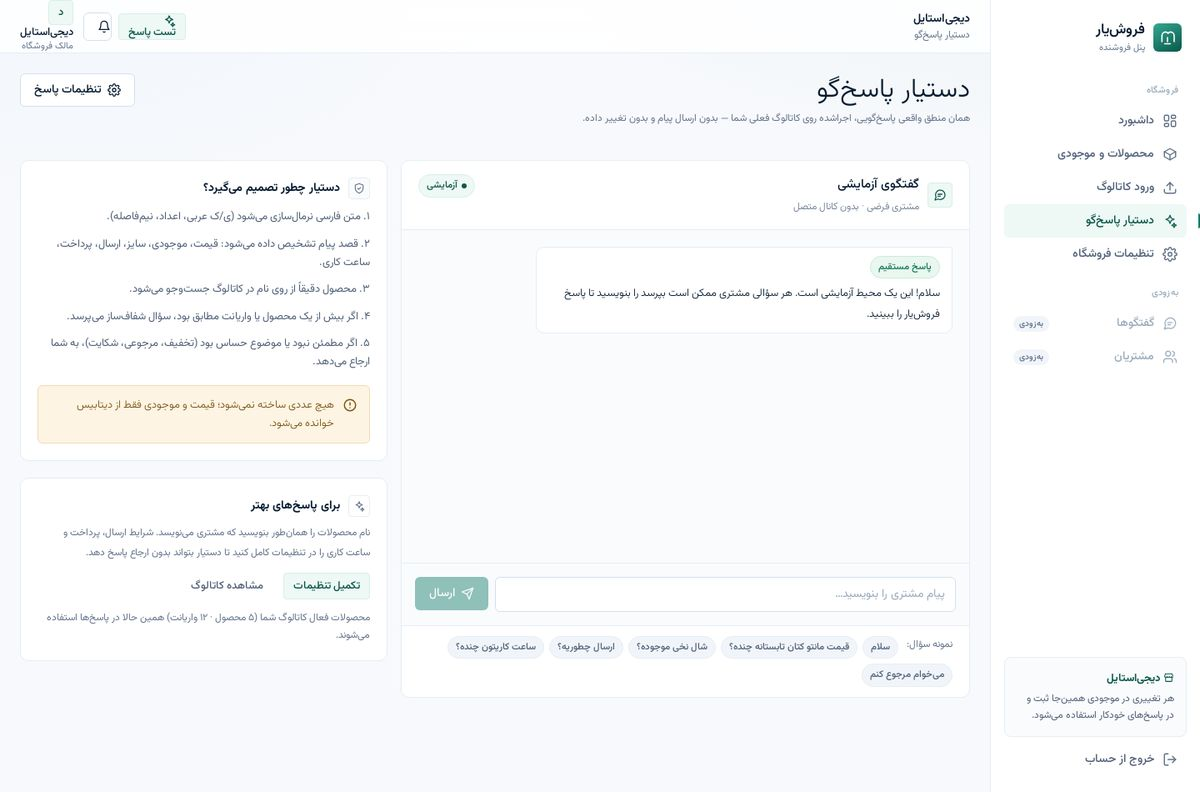
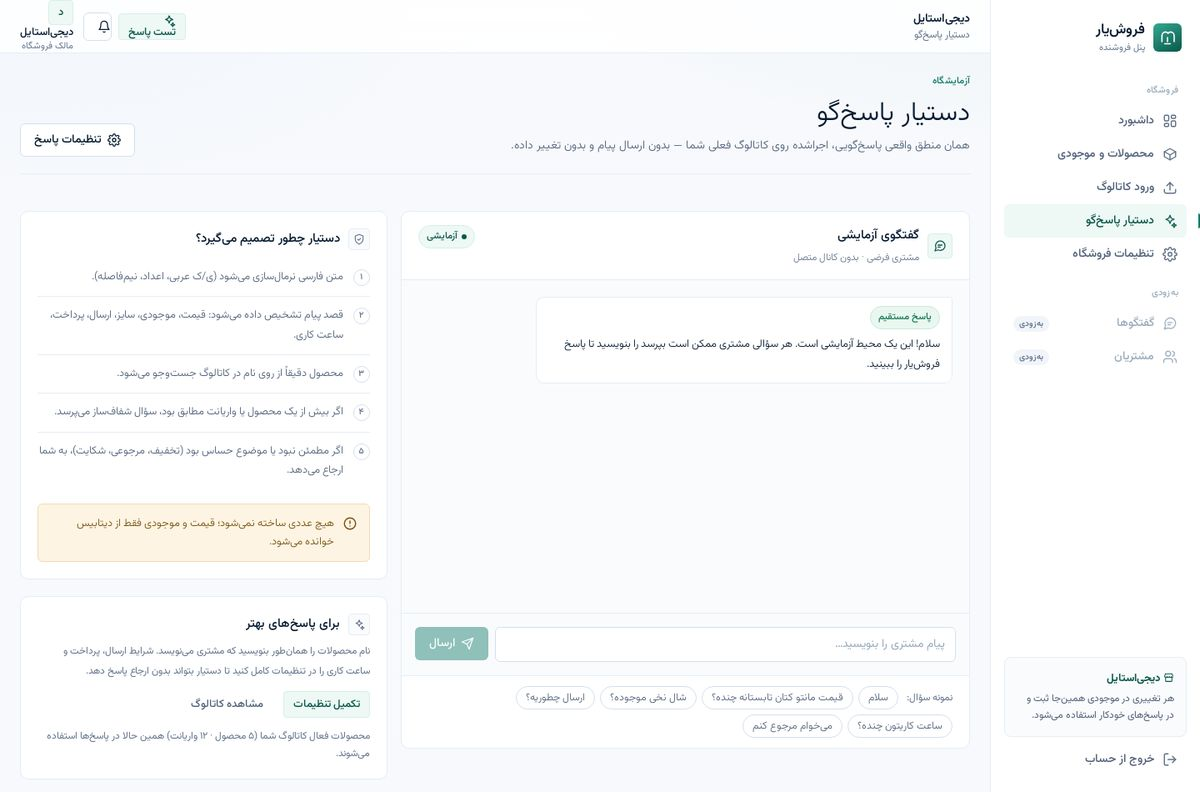
Bring settings, import and assistant onto the same hairline system

diff --git a/frontend/app/app/settings/page.tsx b/frontend/app/app/settings/page.tsx
@@ -63,6 +63,7 @@ export default function SettingsPage() {
   return (
     <div className="stack">
       <PageHeader
+        eyebrow="پیکربندی"
         title="تنظیمات فروشگاه"
         description="این اطلاعات همان چیزی است که دستیار در پاسخهای ارسال، پرداخت و ساعت کاری استفاده میکند."
         actions={<Link href="/app/assistant" className="btn btn-outline"><IconChat size={16} />آزمایش پاسخ</Link>}
@@ -73,12 +74,13 @@ export default function SettingsPage() {
           <section className="card">
             <div className="card-head">
               <div className="row" style={{ gap: 10 }}>
-                <span className="stat-ico"><IconStore size={17} /></span>
+                <span className="stat-ico"><IconStore size={15} /></span>
                 <div>
                   <div className="card-title">هویت فروشگاه</div>
                   <div className="card-desc">نام و لحن پاسخگویی</div>
                 </div>
               </div>
+              <span className="card-index num">۰۱</span>
             </div>
             <div className="card-body" style={{ display: 'grid', gap: 14 }}>
               <Field label="نام فروشگاه" required htmlFor="name">
@@ -93,12 +95,13 @@ export default function SettingsPage() {
           <section className="card">
             <div className="card-head">
               <div className="row" style={{ gap: 10 }}>
-                <span className="stat-ico"><IconSettings size={17} /></span>
+                <span className="stat-ico"><IconSettings size={15} /></span>
                 <div>
                   <div className="card-title">اطلاعات پاسخگویی</div>
                   <div className="card-desc">اگر خالی بماند، دستیار برای این سؤالها شما را ارجاع میدهد</div>
                 </div>
               </div>
+              <span className="card-index num">۰۲</span>
             </div>
             <div className="card-body" style={{ display: 'grid', gap: 14 }}>
               <Field label="شرایط ارسال" htmlFor="shipping" hint="هزینه، روش و زمان تحویل را بنویسید.">
@@ -131,11 +134,12 @@ export default function SettingsPage() {
 
         <div className="stack">
           <section className="card card-pad">
-            <div className="row-between" style={{ marginBottom: 8 }}>
-              <strong>کاملبودن پروفایل</strong>
-              <span className="badge b-brand num">{percent}٪</span>
+            <div className="kv-k" style={{ marginBottom: 10 }}>کاملبودن پروفایل</div>
+            <div className="row" style={{ gap: 8, alignItems: 'baseline' }}>
+              <span className="num" style={{ fontSize: 34, fontWeight: 300, lineHeight: 1 }}>{percent}٪</span>
+              <span className="small muted">از ۶ فیلد</span>
             </div>
-            <div className="progress"><span style={{ width: `${percent}%` }} /></div>
+            <div className="progress mt-3"><span style={{ width: `${percent}%` }} /></div>
             <p className="small muted mt-3" style={{ lineHeight: 1.95 }}>
               هر چه این بخشها کاملتر باشد، دستیار بیشتر میتواند بدون ارجاع پاسخ بدهد و بار پاسخگویی دستی کمتر میشود.
             </p>
@@ -143,18 +147,35 @@ export default function SettingsPage() {
 
           <section className="card">
             <div className="card-head"><div className="card-title">پیشنمایش پاسخ</div></div>
-            <div className="card-body" style={{ display: 'grid', gap: 10 }}>
+            <div className="card-body" style={{ paddingBlock: 6 }}>
+              <div className="kv">
               <PreviewRow label="اگر بپرسند «ارسال چطوریه؟»" value={form.shipping} fallback="به فروشنده ارجاع داده میشود" />
               <PreviewRow label="اگر بپرسند «پرداخت چطوره؟»" value={form.payment} fallback="به فروشنده ارجاع داده میشود" />
               <PreviewRow label="اگر بپرسند «کی باز هستید؟»" value={form.workingHours} fallback="به فروشنده ارجاع داده میشود" />
+              </div>
             </div>
           </section>
 
-          <section className="card card-pad" style={{ background: 'linear-gradient(160deg, var(--brand-50), #fff 70%)', borderColor: 'var(--brand-100)' }}>
-            <strong style={{ display: 'block', marginBottom: 6 }}>فروشگاه فعلی</strong>
-            <div className="small muted">{shop?.name ?? form.name}</div>
-            <div className="small muted" style={{ marginTop: 2 }}>
-              شناسه فروشگاه: <span className="mono">{shop?.id?.slice(0, 8) ?? '—'}…</span>
+          <section className="card">
+            <div className="card-head">
+              <div className="card-title">فروشگاه فعلی</div>
+              <span className="card-index">حساب</span>
+            </div>
+            <div className="card-body" style={{ paddingBlock: 6 }}>
+              <div className="kv">
+                <div className="kv-row">
+                  <span className="kv-k">نام</span>
+                  <span className="kv-v">{shop?.name ?? form.name}</span>
+                </div>
+                <div className="kv-row">
+                  <span className="kv-k">شناسه</span>
+                  <span className="kv-v mono">{shop?.id ? `${shop.id.slice(0, 8)}…` : '—'}</span>
+                </div>
+                <div className="kv-row">
+                  <span className="kv-k">وضعیت</span>
+                  <span className="kv-v"><span className="badge b-green"><span className="dot" />فعال</span></span>
+                </div>
+              </div>
             </div>
           </section>
         </div>
@@ -166,9 +187,9 @@ export default function SettingsPage() {
 function PreviewRow({ label, value, fallback }: { label: string; value: string; fallback: string }) {
   const filled = value.trim().length > 0;
   return (
-    <div style={{ border: '1px solid var(--line)', borderRadius: 'var(--r-md)', padding: '10px 12px', background: filled ? 'var(--surface-2)' : 'var(--amber-soft)' }}>
-      <div className="small muted" style={{ marginBottom: 3 }}>{label}</div>
-      <div className="small" style={{ fontWeight: 500 }}>{filled ? value : fallback}</div>
+    <div className="kv-row">
+      <span className="kv-k">{label}</span>
+      <span className={`kv-v ${filled ? '' : 'missing'}`}>{filled ? value : fallback}</span>
     </div>
   );
 }

diff --git a/frontend/app/app/assistant/page.tsx b/frontend/app/app/assistant/page.tsx
@@ -73,6 +73,7 @@ export default function AssistantPage() {
   return (
     <div className="stack">
       <PageHeader
+        eyebrow="آزمایشگاه"
         title="دستیار پاسخگو"
         description="همان منطق واقعی پاسخگویی، اجراشده روی کاتالوگ فعلی شما — بدون ارسال پیام و بدون تغییر داده."
         actions={<Link href="/app/settings" className="btn btn-outline"><IconSettings size={16} />تنظیمات پاسخ</Link>}
@@ -121,12 +122,11 @@ export default function AssistantPage() {
             </button>
           </form>
 
-          <div className="card-foot" style={{ display: 'flex', gap: 6, flexWrap: 'wrap' }}>
+          <div className="card-foot" style={{ display: 'flex', gap: 6, flexWrap: 'wrap', alignItems: 'center' }}>
             <span className="small muted" style={{ marginInlineEnd: 4 }}>نمونه سؤال:</span>
             {SUGGESTIONS.map(suggestion => (
               <button
-                key={suggestion} type="button" className="badge b-gray"
-                style={{ cursor: 'pointer', border: '1px solid var(--line)' }}
+                key={suggestion} type="button" className="chip-btn"
                 onClick={() => setValue(suggestion)}
               >
                 {suggestion}
@@ -138,15 +138,15 @@ export default function AssistantPage() {
         <div className="stack">
           <section className="card card-pad">
             <div className="row" style={{ gap: 10, marginBottom: 10 }}>
-              <span className="stat-ico"><IconShield size={17} /></span>
-              <strong>دستیار چطور تصمیم میگیرد؟</strong>
+              <span className="stat-ico"><IconShield size={15} /></span>
+              <span className="card-title" style={{ margin: 0 }}>دستیار چطور تصمیم میگیرد؟</span>
             </div>
-            <ul style={{ display: 'grid', gap: 10, fontSize: 'var(--fs-sm)', color: 'var(--ink-2)' }}>
-              <li>۱. متن فارسی نرمالسازی میشود (ی/ک عربی، اعداد، نیمفاصله).</li>
-              <li>۲. قصد پیام تشخیص داده میشود: قیمت، موجودی، سایز، ارسال، پرداخت، ساعت کاری.</li>
-              <li>۳. محصول دقیقاً از روی نام در کاتالوگ جستوجو میشود.</li>
-              <li>۴. اگر بیش از یک محصول یا واریانت مطابق بود، سؤال شفافساز میپرسد.</li>
-              <li>۵. اگر مطمئن نبود یا موضوع حساس بود (تخفیف، مرجوعی، شکایت)، به شما ارجاع میدهد.</li>
+            <ul className="steps-plain">
+              <li><span className="n num">۱</span><span>متن فارسی نرمالسازی میشود (ی/ک عربی، اعداد، نیمفاصله).</span></li>
+              <li><span className="n num">۲</span><span>قصد پیام تشخیص داده میشود: قیمت، موجودی، سایز، ارسال، پرداخت، ساعت کاری.</span></li>
+              <li><span className="n num">۳</span><span>محصول دقیقاً از روی نام در کاتالوگ جستوجو میشود.</span></li>
+              <li><span className="n num">۴</span><span>اگر بیش از یک محصول یا واریانت مطابق بود، سؤال شفافساز میپرسد.</span></li>
+              <li><span className="n num">۵</span><span>اگر مطمئن نبود یا موضوع حساس بود (تخفیف، مرجوعی، شکایت)، به شما ارجاع میدهد.</span></li>
             </ul>
             <div className="alert alert-warn mt-4">
               <IconAlertCircle />
@@ -156,8 +156,8 @@ export default function AssistantPage() {
 
           <section className="card card-pad">
             <div className="row" style={{ gap: 10, marginBottom: 8 }}>
-              <span className="stat-ico" style={{ background: '#fff' }}><IconSparkles size={17} /></span>
-              <strong>برای پاسخهای بهتر</strong>
+              <span className="stat-ico"><IconSparkles size={15} /></span>
+              <span className="card-title" style={{ margin: 0 }}>برای پاسخهای بهتر</span>
             </div>
             <p className="small muted" style={{ lineHeight: 1.95 }}>
               نام محصولات را همانطور بنویسید که مشتری مینویسد. شرایط ارسال، پرداخت و ساعت کاری را در تنظیمات کامل کنید تا

diff --git a/frontend/app/globals.css b/frontend/app/globals.css
@@ -411,6 +411,44 @@ input, textarea, select { font-family: inherit; font-size: inherit; color: inher
 .row-item:hover { background: var(--surface-2); }
 .row-item-in { display: flex; align-items: center; gap: 14px; flex-wrap: wrap; padding: var(--sp-4) var(--sp-5); }
 
+/* Numbered section label (FlowNinja-style index inside card heads) */
+.card-index {
+  font-size: 11px; font-weight: 500; color: var(--ink-4);
+  font-variant-numeric: tabular-nums; letter-spacing: 0.04em;
+}
+/* Key/value hairline rows — settings previews, meta blocks */
+.kv { display: grid; gap: 0; }
+.kv-row {
+  display: flex; align-items: baseline; justify-content: space-between; gap: var(--sp-4);
+  padding: 11px 0; border-bottom: 1px solid var(--line);
+}
+.kv-row:last-child { border-bottom: 0; }
+.kv-k { font-size: var(--fs-xs); color: var(--ink-3); font-weight: 300; flex: 0 0 auto; }
+.kv-v { font-size: var(--fs-sm); color: var(--ink); font-weight: 400; text-align: left; line-height: 1.7; }
+.kv-v.missing { color: var(--amber); }
+/* Suggestion chips (assistant) */
+.chip-btn {
+  display: inline-flex; align-items: center; height: 28px; padding: 0 11px;
+  border: 1px solid var(--line-strong); border-radius: var(--r-full);
+  background: var(--surface); color: var(--ink-2); font-size: 12.5px; font-weight: 300;
+  cursor: pointer; transition: background 0.15s var(--ease), color 0.15s var(--ease), border-color 0.15s;
+}
+.chip-btn:hover { background: var(--surface-3); color: var(--ink); border-color: var(--ink-4); }
+/* Numbered list (how the assistant decides) */
+.steps-plain { display: grid; gap: 0; }
+.steps-plain li {
+  display: flex; gap: 12px; align-items: flex-start;
+  padding: 11px 0; border-bottom: 1px solid var(--line);
+  font-size: var(--fs-sm); font-weight: 300; color: var(--ink-2); line-height: 1.8;
+}
+.steps-plain li:last-child { border-bottom: 0; }
+.steps-plain .n {
+  flex: 0 0 auto; width: 20px; height: 20px; margin-top: 2px;
+  display: grid; place-items: center; border-radius: var(--r-full);
+  border: 1px solid var(--line-strong); color: var(--ink-3);
+  font-size: 10.5px; font-weight: 500; font-variant-numeric: tabular-nums;
+}
+
 /* Tables */
 .table-wrap { overflow-x: auto; border-radius: 0 0 var(--r-lg) var(--r-lg); }
 .table { width: 100%; border-collapse: separate; border-spacing: 0; font-size: var(--fs-base); }
@@ -600,7 +638,17 @@ input, textarea, select { font-family: inherit; font-size: inherit; color: inher
 .nowrap { white-space: nowrap; }
 .truncate { overflow: hidden; text-overflow: ellipsis; white-space: nowrap; }
 .hide-sm { display: initial; }
-.page-head { display: flex; align-items: flex-start; justify-content: space-between; gap: var(--sp-3); margin-bottom: var(--sp-5); flex-wrap: wrap; }
+.page-head {
+  display: flex; align-items: flex-end; justify-content: space-between; gap: var(--sp-4);
+  padding-bottom: var(--sp-5); margin-bottom: var(--sp-6);
+  border-bottom: 1px solid var(--line);
+  flex-wrap: wrap;
+}
+.page-eyebrow {
+  font-size: 11.5px; font-weight: 500; color: var(--brand);
+  letter-spacing: 0.02em; margin-bottom: 8px;
+}
+.page-head p { font-size: var(--fs-base); font-weight: 300; line-height: 1.75; color: var(--ink-2); max-width: 640px; margin-top: 6px; }
 .page-head h1 { font-size: clamp(24px, 2.4vw, 32px); font-weight: 300; letter-spacing: 0; line-height: 1.3; }
 .page-head-actions { display: flex; gap: var(--sp-2); flex-wrap: wrap; }
 

diff --git a/frontend/app/app/import/page.tsx b/frontend/app/app/import/page.tsx
@@ -103,6 +103,7 @@ export default function ImportPage() {
   return (
     <div className="stack">
       <PageHeader
+        eyebrow="ورود داده"
         title="ورود کاتالوگ از فایل"
         description="هر ردیف فایل به یک محصول با واریانت خودش تبدیل میشود. خطای هر ردیف جدا گزارش میشود."
         actions={<button className="btn btn-outline" onClick={downloadSample}><IconDownload size={16} />دانلود فایل نمونه</button>}
@@ -168,15 +169,16 @@ export default function ImportPage() {
               <div className="card-title">ساختار ستونها</div>
               <div className="card-desc">نام ستونها به لاتین باشد</div>
             </div>
+            <span className="card-index">CSV / XLSX</span>
           </div>
           <div className="list">
             {COLUMNS.map(column => (
-              <div className="list-row" key={column.name} style={{ padding: '10px 20px' }}>
-                <div className="list-main">
+              <div className="list-row" key={column.name}>
+                <span className={`badge ${column.required ? 'b-brand' : 'b-gray'}`}>{column.required ? 'الزامی' : 'اختیاری'}</span>
+                <div className="list-main" style={{ textAlign: 'right' }}>
                   <div className="list-title mono">{column.name}</div>
                   <div className="list-sub">{column.desc}</div>
                 </div>
-                <span className={`badge ${column.required ? 'b-brand' : 'b-gray'}`}>{column.required ? 'الزامی' : 'اختیاری'}</span>
               </div>
             ))}
           </div>

diff --git a/frontend/components/ui.tsx b/frontend/components/ui.tsx
@@ -220,12 +220,13 @@ export function Switch({ checked, onChange, label, id }: { checked: boolean; onC
 
 /* ------------------------------------------------------------- PageHeader */
 
-export function PageHeader({ title, description, actions }: { title: string; description?: string; actions?: ReactNode }) {
+export function PageHeader({ title, description, eyebrow, actions }: { title: string; description?: string; eyebrow?: string; actions?: ReactNode }) {
   return (
     <div className="page-head">
       <div>
+        {eyebrow && <div className="page-eyebrow">{eyebrow}</div>}
         <h1>{title}</h1>
-        {description && <p className="muted small" style={{ marginTop: 2 }}>{description}</p>}
+        {description && <p>{description}</p>}
       </div>
       {actions && <div className="page-head-actions">{actions}</div>}
     </div>

diff --git a/frontend/app/app/products/page.tsx b/frontend/app/app/products/page.tsx
@@ -169,6 +169,7 @@ export default function ProductsPage() {
   return (
     <div className="stack">
       <PageHeader
+        eyebrow="کاتالوگ"
         title="محصولات و موجودی"
         description={`${faNum(totals.products)} محصول فعال · ${faNum(totals.variants)} واریانت · ${faNum(totals.stock)} عدد موجودی · ارزش ${toman(totals.value)}`}
         actions={

diff --git a/frontend/app/app/page.tsx b/frontend/app/app/page.tsx
@@ -87,6 +87,7 @@ export default function DashboardPage() {
   return (
     <div className="stack">
       <PageHeader
+        eyebrow="داشبورد"
         title={`سلام${shop?.name ? `، ${shop.name}` : ''} 👋`}
         description={`${faWeekday(new Date())} ${faDate(new Date())} — این خلاصهٔ امروز فروشگاه شماست.`}
         actions={

diff --git a/docs/ui-research/IMPLEMENTED.md b/docs/ui-research/IMPLEMENTED.md
@@ -80,6 +80,17 @@ npm run dev        # http://localhost:3000
 
 هر پنج صفحه دوباره بازبینی شدند: `/`, `/login`, `/app`, `/app/products`, `/app/import`, `/app/assistant`, `/app/settings` — در ۱۴۴۰ و ۳۹۰، بدون سرریز افقی (`scrollWidth == clientWidth`).
 
+## مرحلهی سوم — بقیهی صفحات
+
+| صفحه | چه شد |
+|---|---|
+| هدر همهی صفحات | `PageHeader` حالا **برچسب بالای تیتر** + تیتر وزن ۳۰۰ + توصیف وزن ۳۰۰ دارد و با یک **خط مویی** از محتوا جدا میشود (الگوی بخشبندی Stripe). |
+| `/app/settings` | کارتها شمارهی بخش گرفتند (`۰۱`, `۰۲`, `حساب`) در گوشهی هدر کارت؛ پیشنمایش پاسخها از جعبههای رنگی به **ردیفهای کلید/مقدار خطمویی** تبدیل شد و مقادیر خالی با رنگ کهربایی مشخص میشوند؛ کارت گرادیانی «فروشگاه فعلی» به کارت خطمویی با ردیفهای نام/شناسه/وضعیت و بَج «فعال» شد؛ «کاملبودن پروفایل» عدد ۳۴px وزن ۳۰۰ گرفت. |
+| `/app/import` | `name/price/stock/size/color/sku` حالا در **ستون راست** و بَج الزامی/اختیاری در ستون چپ (قبلاً برعکس و شلوغ بود)؛ برچسب `CSV / XLSX` در هدر کارت؛ آیکونها و شعاعها با بقیه یکی شد. |
+| `/app/assistant` | فهرست «دستیار چطور تصمیم میگیرد» به **لیست شمارهدار خطمویی** با دایرههای ۲۰px تبدیل شد؛ نمونهسؤالها از بَج خاکستری به **چیپ پیل** با هاور؛ تیترهای کارت وزن ۵۰۰؛ آواتار گفتگو کوچک و بیرنگتر. |
+
+همهی صفحات در ۱۴۴۰ و ۳۹۰ بازبینی شدند؛ `scrollWidth == clientWidth` در هر ده حالت.
+
 ## چه چیزی هنوز باقی مانده
 
 - صفحهی `/app/products` از نظر ساختاری همان است (فقط توکنها و شعاع/سایه/وزن عوض شده). اگر بخواهی، جدول/کارتها را به الگوی «ردیفهای خطکشی + هاور `#F8FAFD`» نزدیک میکنم.
